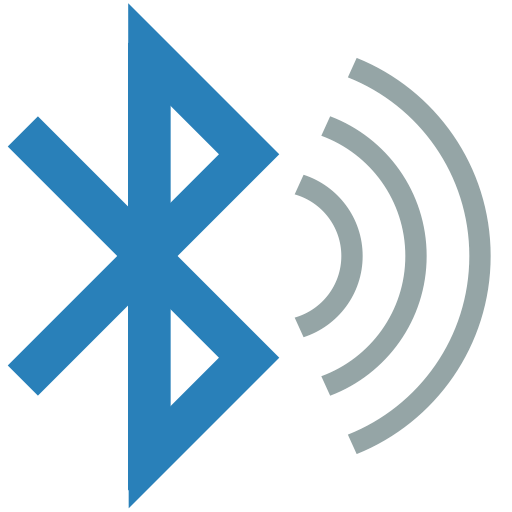
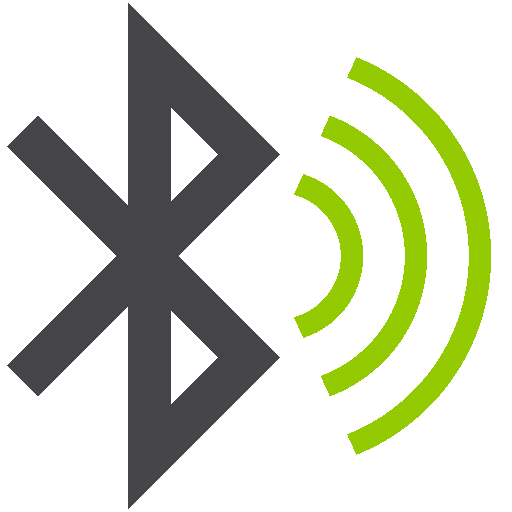
changed antenna image and corrected hector battery

diff --git a/desktop/modal/blea.remote.php b/desktop/modal/blea.remote.php
@@ -50,9 +50,9 @@ foreach ($remotes as $remote) {
 <div class="eqLogicThumbnailContainer">
 	<div class="cursor bleaRemoteAction pull-left" data-action="add" style="background-color : #ffffff; height : 140px;margin-bottom : 10px;padding : 5px;border-radius: 2px;width : 160px;margin-left : 10px;" >
      <center>
-      <i class="fa fa-plus-circle" style="font-size : 9em;color:#2980b9;"></i>
+      <i class="fa fa-plus-circle" style="font-size : 9em;color:#94ca02;"></i>
     </center>
-    <span style="font-size : 1.1em;position:relative; top : 15px;word-break: break-all;white-space: pre-wrap;word-wrap: break-word;color:#2980b9"><center>{{Ajouter}}</center></span>
+    <span style="font-size : 1.1em;position:relative; top : 15px;word-break: break-all;white-space: pre-wrap;word-wrap: break-word;color:#94ca02"><center>{{Ajouter}}</center></span>
   </div>
   <?php
 foreach ($remotes as $remote) {
@@ -60,7 +60,7 @@ foreach ($remotes as $remote) {
 	echo "<center>";
 	echo '<img class="lazy" src="plugins/blea/3rdparty/antenna.png" height="105" width="95" />';
 	echo "</center>";
-	echo '<span style="font-size : 1.1em;position:relative; top : 15px;word-break: break-all;white-space: pre-wrap;word-wrap: break-word;"><center>' . $remote->getRemoteName() . '</center></span>';
+	echo '<span style="font-size : 1.1em;position:relative; top : 15px;word-break: break-all;white-space: pre-wrap;word-wrap: break-word;color:#94ca02""><center>' . $remote->getRemoteName() . '</center></span>';
 	echo '</div>';
 }
 ?>

diff --git a/resources/blead/devices/hector.py b/resources/blead/devices/hector.py
@@ -42,10 +42,10 @@ class Hector():
 			result['batteryvoltage'] = round(float(battery)*0.00051029,2)
 			if round(float(battery)*0.00051029,2) > 3:
 				battery = 100
-			elif round(float(battery)*0.00051029,2) < 2.5:
+			elif round(float(battery)*0.00051029,2) < 2:
 				battery = 0
 			else:
-				battery = (round(float(battery)*0.00051029,2) - 2.5) *3/2.5
+				battery = round((float(battery)*0.00051029 - 2) *100,0)
 			result['battery'] = battery
 		except Exception,e:
 			logging.error(str(e))
